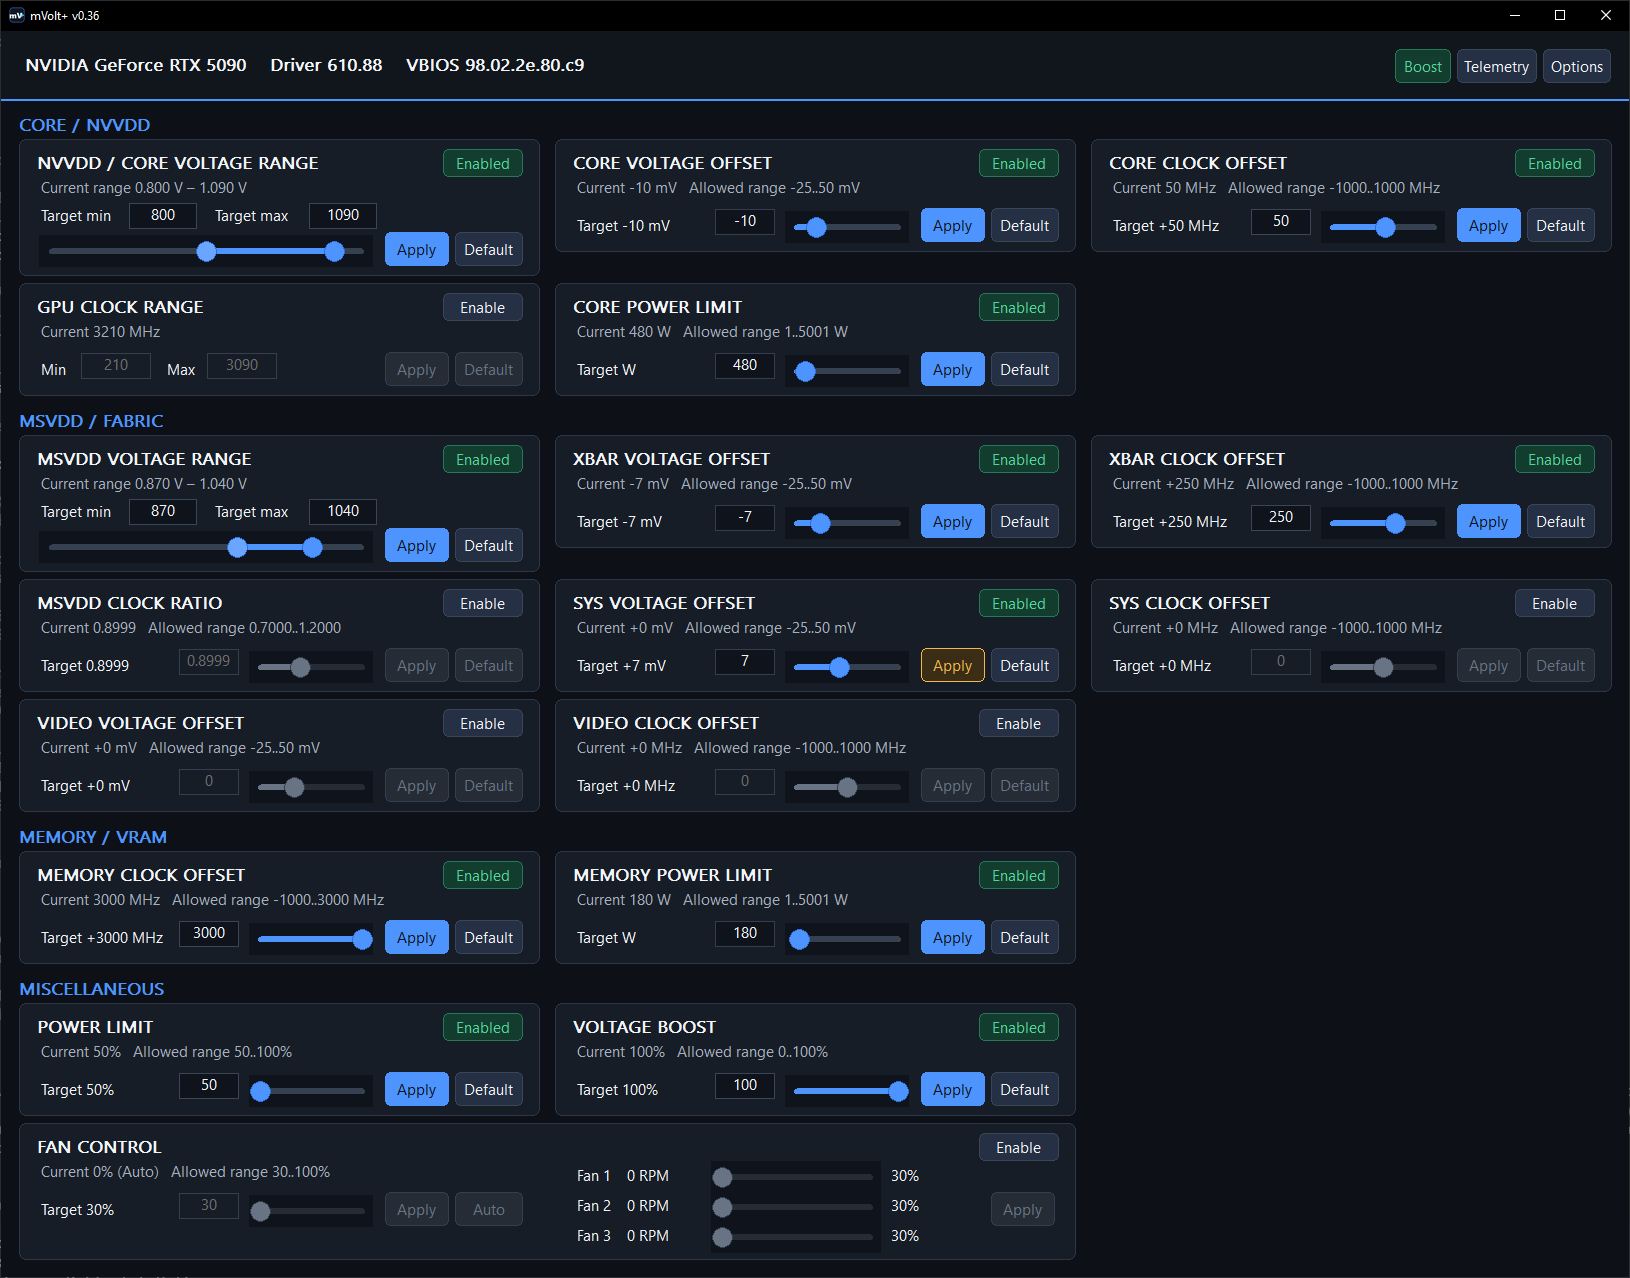
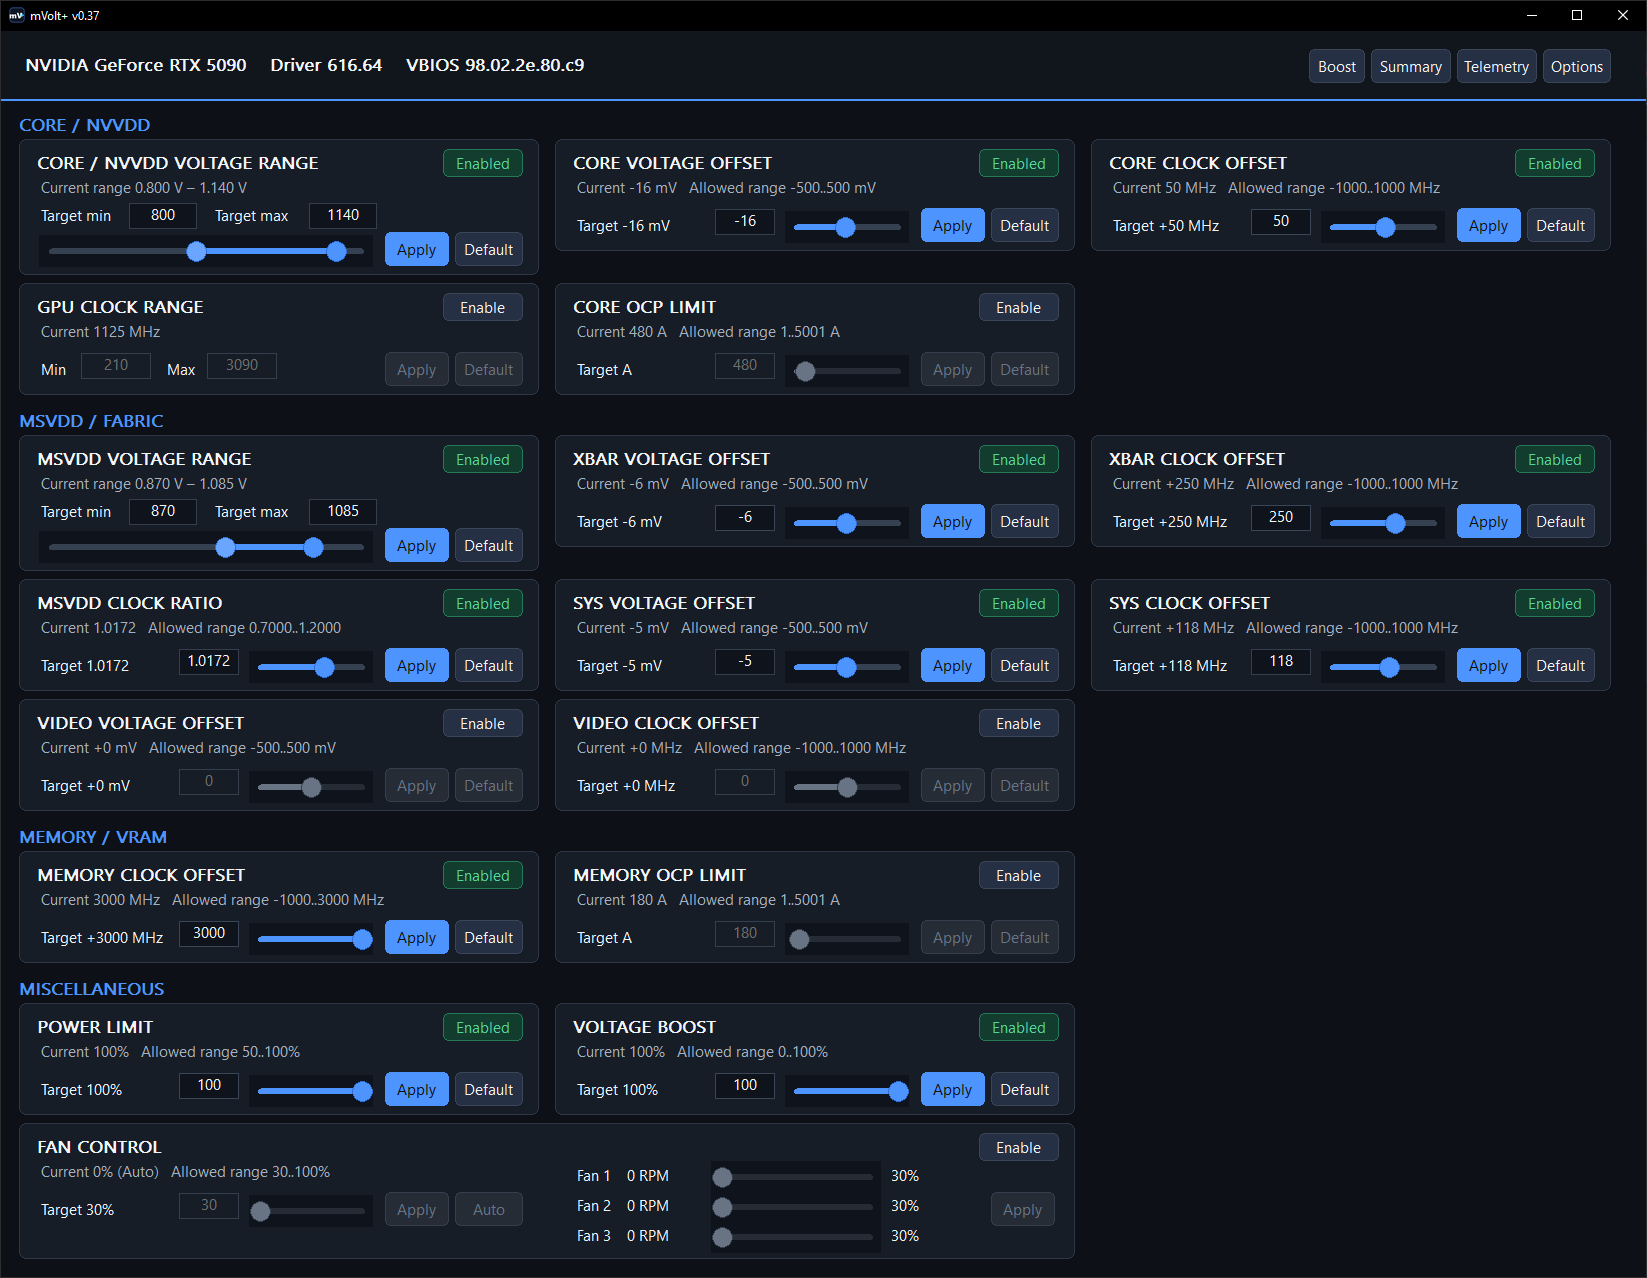
update assets and readme for v0.37

diff --git a/README.md b/README.md
@@ -1,84 +1,113 @@
-# mVolt+
+# mVolt+ 0.37
 
-Windows tuning utility for Blackwell GPUs.
+mVolt+ is a lightweight Windows utility for NVIDIA GPU tuning, monitoring,
+and profiles. It is designed primarily for RTX 50 series GPUs and also offers
+experimental support for RTX 40, RTX 30, RTX 20, and GTX 10 series cards.
+
+It ships as a single native executable with no installer.
 
 ## Download
 
-Download the latest `mVolt+.exe` from [GitHub Releases](https://github.com/b00nz/mVolt/releases/tag/v0.37)
-or click here: [mVolt+.exe](https://github.com/b00nz/mVolt/releases/download/v0.37/mVolt+.exe)
+- [mVolt+ v0.37 release](https://github.com/b00nz/mVolt/releases/tag/v0.37)
+- [Download mVolt+.exe](https://github.com/b00nz/mVolt/releases/download/v0.37/mVolt+.exe)
 
-Current release: **0.37**
+Administrator privileges are required for tuning.
 
 ## Features
 
-- NVVDD and MSVDD minimum and maximum voltage control
-- Core, XBAR, SYS and Video voltage offsets
-- Core, Memory, SYS and Video clock offsets
-- XBAR clock control with an adjustable MSVDD clock ratio that moves the XBAR,
-  SYS and Video ceilings together
-- Core and Memory channel power limits in watts, bounded by the range the
-  vBIOS reports and held at the firmware default until unlocked in Options
-- Board power limit and Voltage Boost
-- GPU clock range through NVML locked clocks
-- Linked and per-fan control with live RPM readback
-- V/F curve editing with regional offsets and flattening
-- Named tuning profiles covering every control, applied on demand or at
-  Windows logon; a control the profile does not enable is left untouched
-- Multi-GPU selection, with profiles and startup settings kept per adapter
-- Live clock, rail, ADC, power and P-state telemetry in separate tabs
-- Command line for every tuning control and for applying a profile by name;
-  `--status` reports the driver's own minimum and maximum for each control
-  that has one
-- Adjustable poll interval, polling pause while hidden, and 50-200% interface
-  zoom
+- NVVDD and MSVDD voltage-range control
+- Core, memory, XBAR, SYS, and video clock offsets
+- V/F curve editing
+- Core, XBAR, SYS, and video voltage-demand offsets
+- Board power limit
+- Core and Memory OCP limits in amps
+- Voltage Boost, Boost Lock, and GPU clock-range control
+- Linked or individual fan control with live RPM
+- Live voltage, clock, power, P-state, and ADC telemetry
+- Optional RTSS overlay output for rail and clock readings
+- Compact Applied Settings summary with driver and VBIOS information
+- Multi-GPU support
+- Hideable tiles, scrolling, and adjustable interface scaling
 
-## Dashboard controls
+Only controls supported by the selected GPU and driver are made available.
 
-Moving a slider only changes its pending target. **Enable** arms the control,
-**Apply** writes it, and **Default** restores the driver-reported default.
+## Profiles and automation
 
-| Control | What it does |
-|---|---|
-| Core / NVVDD Voltage Range | Sets the core rail's minimum voltage with the left handle and maximum voltage with the right handle; it does not lock a constant voltage. |
-| MSVDD Voltage Range | Sets the separate MSVDD rail's minimum and maximum voltage limits. |
-| MSVDD Clock Ratio | Adjusts the MSVDD-domain clock ceiling relative to the core clock, affecting XBAR, SYS, and Video clocks; each still follows its own V/F curve and clock limits. |
-| Core Clock Offset | Adds a global core-clock offset that stacks with regional V/F point offsets. |
-| Memory Clock Offset | Adds an offset to the driver-exposed VRAM clock. |
-| XBAR Clock Offset | Adds an offset to the GPU crossbar/interconnect clock. |
-| Power Limit | Sets the board-power ceiling as a percentage of the firmware default. |
-| SYS Clock Offset | Adds an offset to the GPU's internal system clock domain. |
-| Voltage Boost | Sets NVIDIA's Voltage Boost percentage; it does not directly set a rail voltage. |
-| Video Clock Offset | Adds an offset to the driver-exposed video clock domain. |
-| Core / XBAR / SYS / Video Voltage Offset | Shifts how much voltage one domain asks for at a given frequency; negative allows a higher clock. |
-| Core / Memory Power Limit | Sets an absolute watt limit on the core/graphics or memory/HBM power channel. Limited to the firmware default unless unlocked in Options. |
-| GPU Clock Range | Sets an absolute minimum and maximum core clock; **Default** releases the lock. |
-| Fan Control | The linked slider sets every fan; the per-fan sliders set individual channels, and **Auto** returns control to firmware. |
+- Save and load complete tuning profiles
+- Apply a profile immediately or load it as pending settings
+- Assign global hotkeys to profiles
+- Apply a selected profile automatically at Windows logon
+- Minimize or close mVolt+ to the system tray
+- Keep separate profiles for each GPU and VBIOS
 
-**MSVDD Clock Ratio example:** The nominal relationship is approximately
-`clock ceiling = core clock x ratio`. With the core at 3000 MHz, `0.90`
-corresponds to a 2700 MHz ceiling for XBAR, SYS, and Video clocks, while `1.20`
-corresponds to 3600 MHz. The ceiling moves as the core clock changes with GPU
-Boost; it does not force any domain to run at that exact frequency. Actual
-clocks can remain lower because each domain still follows its own V/F curve,
-offset, hardware limit, and workload-dependent boost behavior.
+Profiles are complete snapshots. Enabled controls use their saved values,
+disabled controls return to their defaults, and controls missing from older
+profiles are left unchanged.
 
-**When mVolt+ closes**, everything you applied stays on the card until you
-change it or reboot. Only the fans return to automatic, because a fixed duty
-with no program behind it stops responding to temperature.
+Default-valued settings appear disabled after loading. Hidden tiles are still
+saved and applied.
 
-**Options > Extend voltage offsets** opens the wider voltage-offset window for
-anyone who wants to go past the measured-safe default.
+## Applied Settings
 
-**Options > Unlock Core/Memory power limits** raises the ceiling on the two
-channel power sliders from the firmware default to the full range the vBIOS
-reports. It is off by default because those sliders reach 1 W at the bottom.
-Switching it back off returns any limit above the firmware default to the
-default, the same way turning off the XOC range or the extended voltage
-offsets does.
+The **Summary** button opens a compact, always-on-top view of the current
+settings. It includes:
+
+- Clock, voltage, power, OCP, fan, and lock settings
+- Active profile and current time
+- NVIDIA driver and VBIOS versions
+- A copyable text summary for benchmark submissions
+
+## Telemetry and RTSS
+
+The telemetry window shows available rail, ADC, power, P-state, fan, and clock
+data. Polling speed can be adjusted or paused while mVolt+ is minimized.
+
+mVolt+ can also publish selected rail and clock readings to the RivaTuner
+Statistics Server overlay. RTSS is optional, and the master switch and all
+individual overlay items are off by default.
 
 ## Compatibility
 
-Tested on GeForce RTX 5090, RTX 5080, and RTX 5070 Ti.
+- **RTX 50 / Blackwell:** Primary support
+- **RTX 40 / Ada:** Experimental support
+- **RTX 30 / Ampere:** Experimental support
+- **RTX 20 / Turing:** Experimental basic tuning support
+- **GTX 10 / Pascal:** Experimental basic tuning support
+
+Available controls vary by card, firmware, and driver. Unsupported features
+remain hidden or disabled instead of using unverified write paths.
+
+Primary testing has been performed on GeForce RTX 5090, RTX 5080, and
+RTX 5070 Ti hardware.
+
+## Safety and persistence
+
+- Opening mVolt+ and moving controls do not change GPU settings
+- Changes are written only when **Apply**, **Default**, or **Auto** is used
+- Values are checked against the ranges reported by the driver
+- Writes are verified and failed multi-step changes attempt to roll back
+- Unsupported controls fail closed
+- Compatibility reports are encrypted and collect read-only driver data
+
+> **Settings are not reverted when mVolt+ closes.** Applied voltage, clock,
+> power, OCP, V/F, lock, and fan settings remain active until they are changed,
+> reset, or cleared by the driver or a reboot. Use **Default** or **Auto** when
+> you want to return a control to stock behavior.
+
+GPU tuning can cause instability, driver resets, data loss, or hardware
+damage. Use conservative values and proceed at your own risk.
+
+## Command line
+
+mVolt+ provides read-only status, GPU listing, compatibility reporting,
+profile loading, and direct tuning options from the command line.
+
+```powershell
+.\mVolt+.exe --help
+.\mVolt+.exe --list-gpus
+.\mVolt+.exe --status
+.\mVolt+.exe --diagnostic
+```
 
 ## Screenshots
 
@@ -99,16 +128,23 @@ Tested on GeForce RTX 5090, RTX 5080, and RTX 5070 Ti.
 
 <picture>
   <img src="https://raw.githubusercontent.com/b00nz/mVolt/main/assets/mvolt-profiles.png"
-       alt="mVolt+ profile manager">
+       alt="mVolt+ profile manager and RTSS options">
 </picture>
 
-Administrator privileges are required. Hardware support varies by GPU,
-driver, and vBIOS. GPU tuning can cause crashes or hardware damage; use it
-at your own risk.
+## Requirements
 
-mVolt+ is not affiliated with or endorsed by any GPU manufacturer.
+- 64-bit Windows
+- NVIDIA display driver
+- Administrator privileges for tuning
+- NVML support for GPU Clock Range
+- RTSS only when overlay output is wanted
+
+mVolt+ is an independent third-party project. It is not affiliated with,
+sponsored by, approved by, or endorsed by NVIDIA Corporation. NVIDIA,
+GeForce, RTX, and related product names are trademarks of their respective
+owners and are used only to describe compatibility.
 
 ## Credits
 
 - [Loong0x00](https://github.com/Loong0x00) for discovering the XBAR clock
-  control.
+  control
